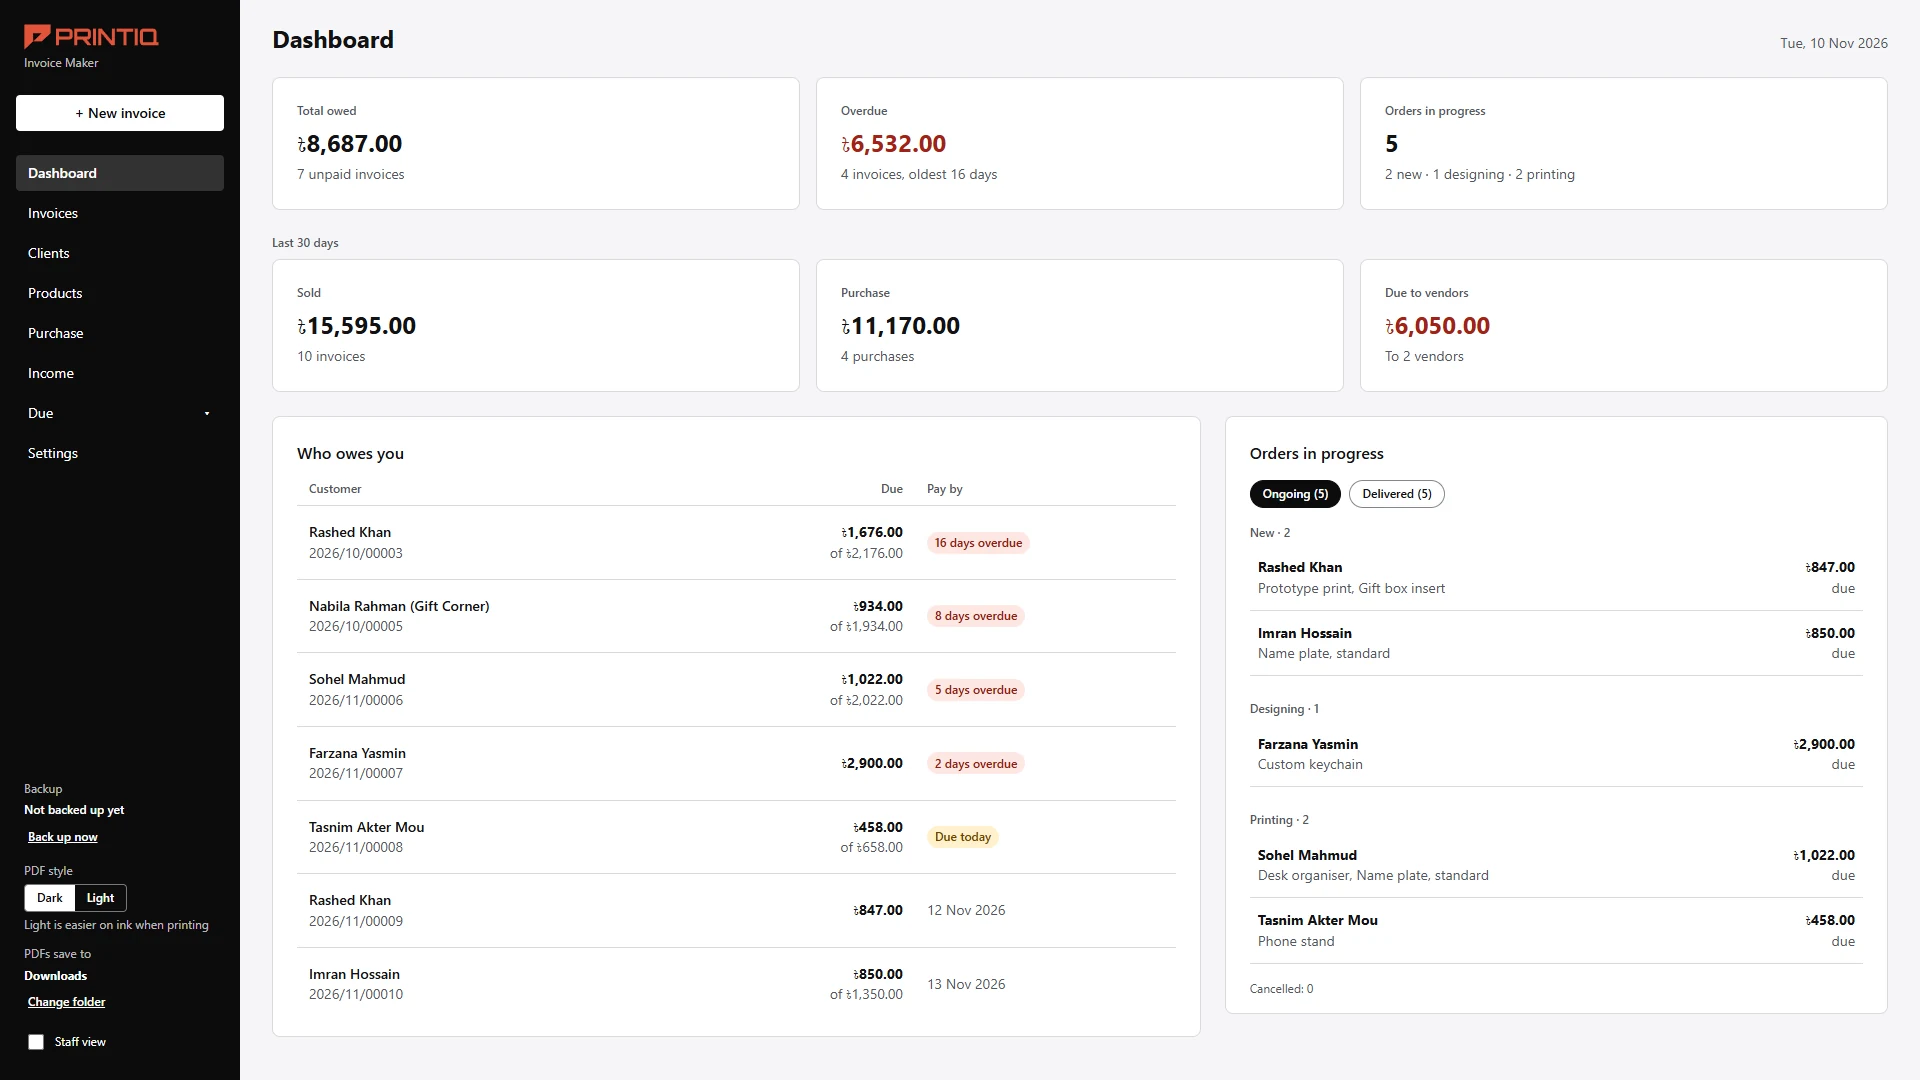
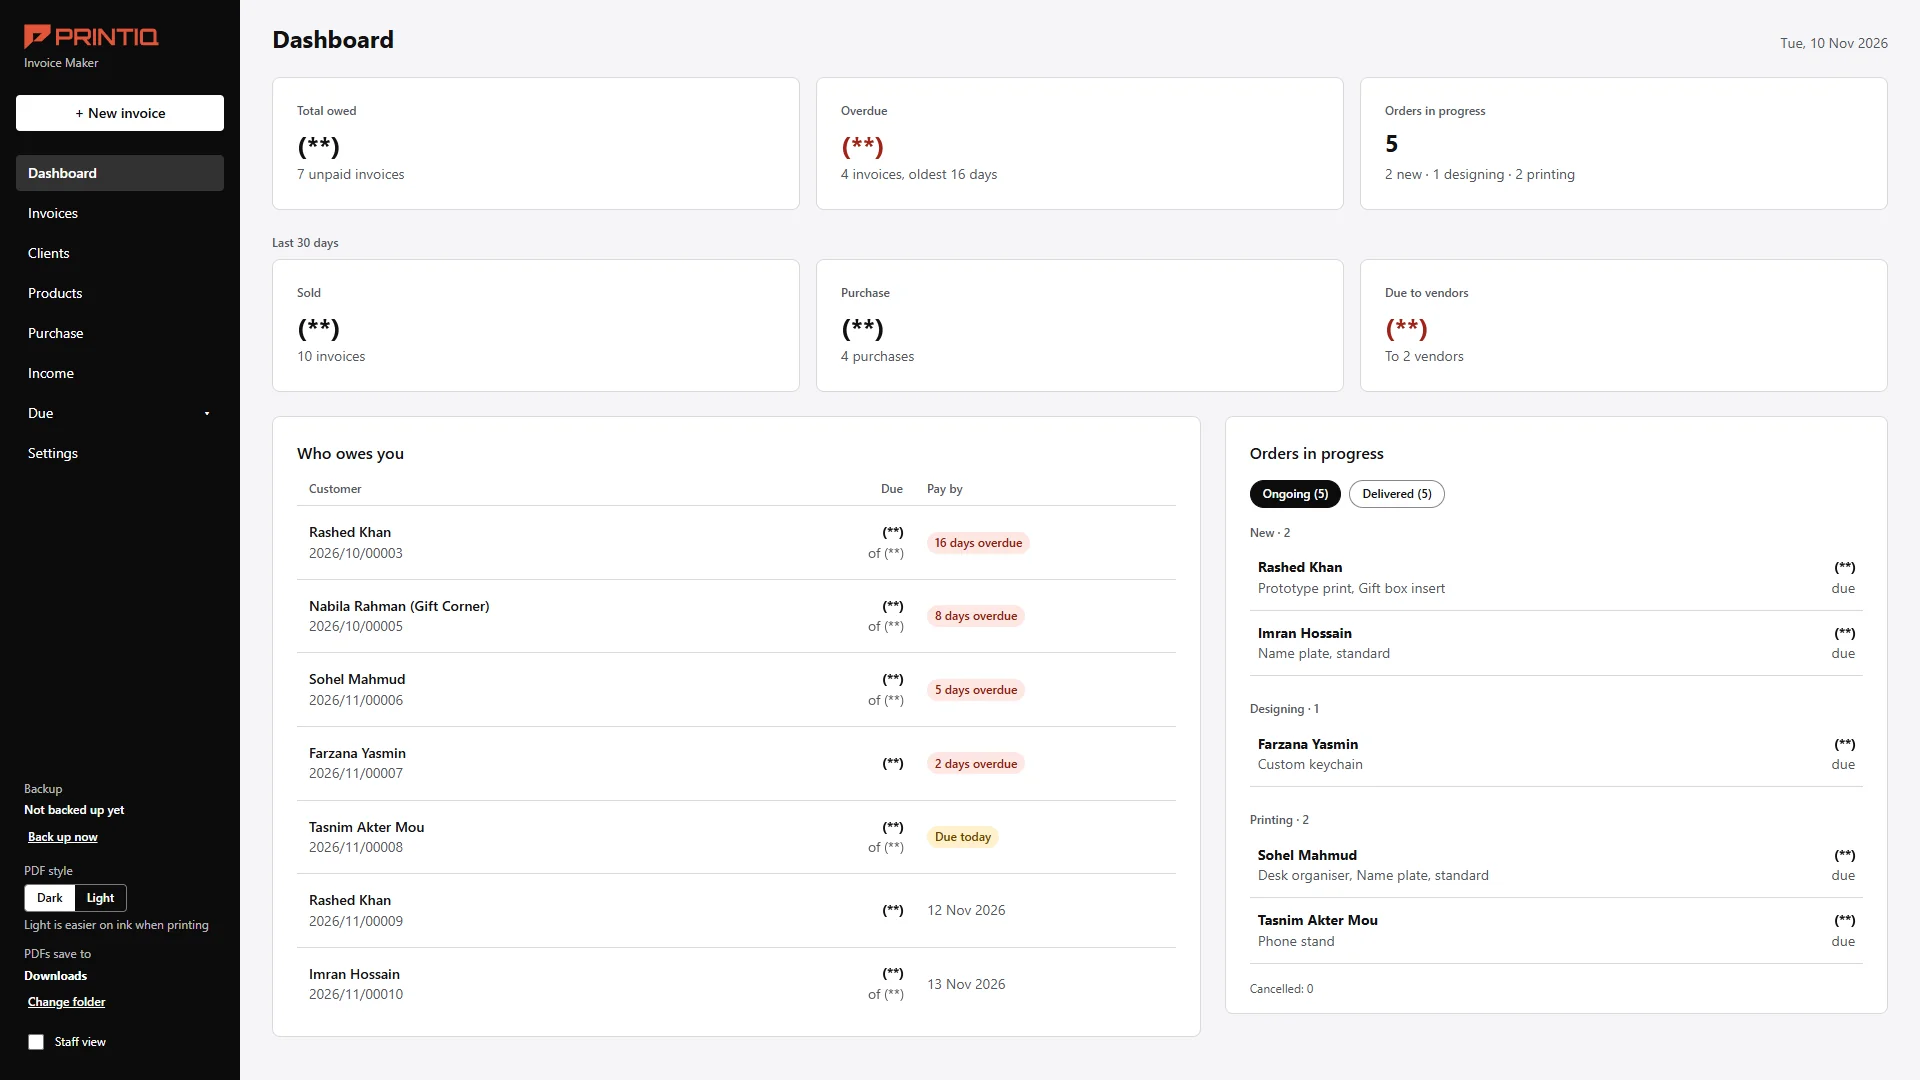
Owner review, name and masked dashboard numbers

diff --git a/work/printiq.html b/work/printiq.html
@@ -19,7 +19,7 @@
 <link rel="preconnect" href="https://fonts.googleapis.com">
 <link rel="preconnect" href="https://fonts.gstatic.com" crossorigin>
 <link rel="stylesheet" href="https://fonts.googleapis.com/css2?family=Inter:wght@400;500&family=JetBrains+Mono:wght@400&family=Plus+Jakarta+Sans:wght@500;600;700;800&display=swap">
-<!-- Do not publish before the owner's written OK. Screens use made-up customer data. No review card until Mahmud's real words arrive. -->
+<!-- Owner's written OK and review received 2026-11-14 (evidence/2026-11-14-printiq-owner-reply.md). Screens use demo customers; money amounts on the dashboard are masked with (**) at his request. -->
 <style>
 :root{
   --color-bg:#0A0B0D;--color-surface:#121418;--color-line:#23262D;--color-line-strong:#33373f;
@@ -166,6 +166,9 @@ footer.site a:hover{color:var(--color-text)}
 .next a.big-link{display:inline-flex;align-items:center;min-height:var(--hit);margin-top:1rem;font:800 clamp(2.25rem,6vw,5rem)/1 var(--font-display);letter-spacing:-.04em;text-decoration:none;border-bottom:3px solid var(--color-brand)}
 .next a.big-link:hover{color:var(--color-brand)}
 @media (max-width:900px){.built-list{grid-template-columns:1fr}}
+.quote{margin:0 0 2.5rem;padding-left:1.75rem;border-left:3px solid var(--color-brand)}
+.quote p{margin:0;font:600 clamp(1.25rem,2.1vw,1.75rem)/1.4 var(--font-display);letter-spacing:-.015em;max-width:30em;color:var(--color-text)}
+.quote footer{margin-top:1rem;color:var(--color-text-muted);font:600 .9375rem/1.3 var(--font-display)}
 </style>
 </head>
 <body>
@@ -195,7 +198,7 @@ footer.site a:hover{color:var(--color-text)}
     <h1>Printiq</h1>
     <p class="lead">An invoice tool for a 3D-printing shop in Dhaka, built around one question: who owes money.</p>
     <dl class="facts">
-      <div><dt>Client</dt><dd>A small 3D-printing shop in Bangladesh</dd></div>
+      <div><dt>Client</dt><dd>PRINTIQ, a small 3D-printing shop in Bangladesh</dd></div>
       <div><dt>My role</dt><dd>UX, UI and build</dd></div>
       <div><dt>Built</dt><dd>Windows desktop app, in HTML, CSS and JavaScript</dd></div>
       <div><dt>Status</dt><dd>Delivered, November 2026</dd></div>
@@ -208,7 +211,6 @@ footer.site a:hover{color:var(--color-text)}
 <section>
   <div class="wrap narrow">
     <div class="sec-head"><span class="sec-num">01</span><h2 class="sec-title">The brief</h2></div>
-    <!-- Client quote goes here when Mahmud sends his own words. Do not invent one. -->
     <div class="prose">
       <p>The owner built his own invoice app with AI. <b>It worked.</b> But orders came by Messenger and WhatsApp, he made 50 to 100 invoices a month, and who owed him money lived in a notebook.</p>
       <p>So the brief became one question: <b>who owes me, and how late?</b></p>
@@ -273,6 +275,7 @@ footer.site a:hover{color:var(--color-text)}
 <section>
   <div class="wrap narrow">
     <div class="sec-head"><span class="sec-num">05</span><h2 class="sec-title">Outcome</h2></div>
+    <blockquote class="quote"><p>&ldquo;This system has made my business tracking easier. I can see at a glance about the sales and purchases and easily create invoices. If i needed any changes i had to make a new pdf earlier. It has made that process easier.&rdquo;</p><footer>Saifuddin Mahmud &middot; Owner, PRINTIQ</footer></blockquote>
     <div class="prose">
       <p>An A4 PDF saves in one click. The owner tested the app over several rounds and liked the demo. I make no time-saved claim: there is no stopwatch baseline.</p>
     </div>
@@ -334,7 +337,7 @@ footer.site a:hover{color:var(--color-text)}
     gsap.from('.hero h1',{yPercent:30,opacity:0,duration:1.1,ease:'power4.out',delay:.1});
     gsap.from('.hero .lead, .facts div',{y:30,opacity:0,duration:.9,ease:'power3.out',stagger:.08,delay:.35});
     gsap.fromTo('.heroshot .bshot',{y:90,rotationX:14,scale:.94,opacity:0,transformPerspective:1600},{y:0,rotationX:0,scale:1,opacity:1,duration:1.4,ease:'power4.out',delay:.5});
-    gsap.utils.toArray('.sec-head, .prose, .built-list .item, .gal .bshot, .before-grid figure, .pdfshot, .stats3 .glass, .wrong, .next .big-link, .cta h2, .cta .row').forEach(function(el){
+    gsap.utils.toArray('.sec-head, .quote, .prose, .built-list .item, .gal .bshot, .before-grid figure, .pdfshot, .stats3 .glass, .wrong, .next .big-link, .cta h2, .cta .row').forEach(function(el){
       gsap.from(el,{y:60,opacity:0,duration:1,ease:'power3.out',scrollTrigger:{trigger:el,start:'top 88%',toggleActions:'play none none reverse'}});
     });
     setTimeout(function(){ST.refresh()},800);

diff --git a/index.html b/index.html
@@ -164,8 +164,8 @@
     <div class="pstage" id="pstage">
       <div class="pscene s1">
         <div class="ptext"><span class="count">01 / 03</span><span class="tag">Client work</span><h3>Printiq</h3><p>A print shop's invoices, orders and dues, on one screen instead of three.</p>
-          <!-- PLACEHOLDER lorem ipsum: Mahmud's real words come tomorrow. Replace before any deploy. -->
-          <figure class="review glass"><blockquote>&ldquo;Lorem ipsum dolor sit amet, consectetur adipiscing elit, sed do eiusmod tempor incididunt ut labore et dolore magna aliqua.&rdquo;</blockquote><figcaption><span class="avatar" aria-hidden="true">M</span><span><b>Mahmud</b><small>Owner, Printiq</small></span></figcaption></figure>
+          <!-- Owner's own words, unedited. Written OK 2026-11-14: evidence/2026-11-14-printiq-owner-reply.md -->
+          <figure class="review glass"><blockquote>&ldquo;This system has made my business tracking easier. I can see at a glance about the sales and purchases and easily create invoices. If i needed any changes i had to make a new pdf earlier. It has made that process easier.&rdquo;</blockquote><figcaption><span class="avatar" aria-hidden="true">S</span><span><b>Saifuddin Mahmud</b><small>Owner, PRINTIQ</small></span></figcaption></figure>
           <a class="btn btn-glass" href="work/printiq.html">See the full case study</a>
         </div>
         <div class="pshots">
